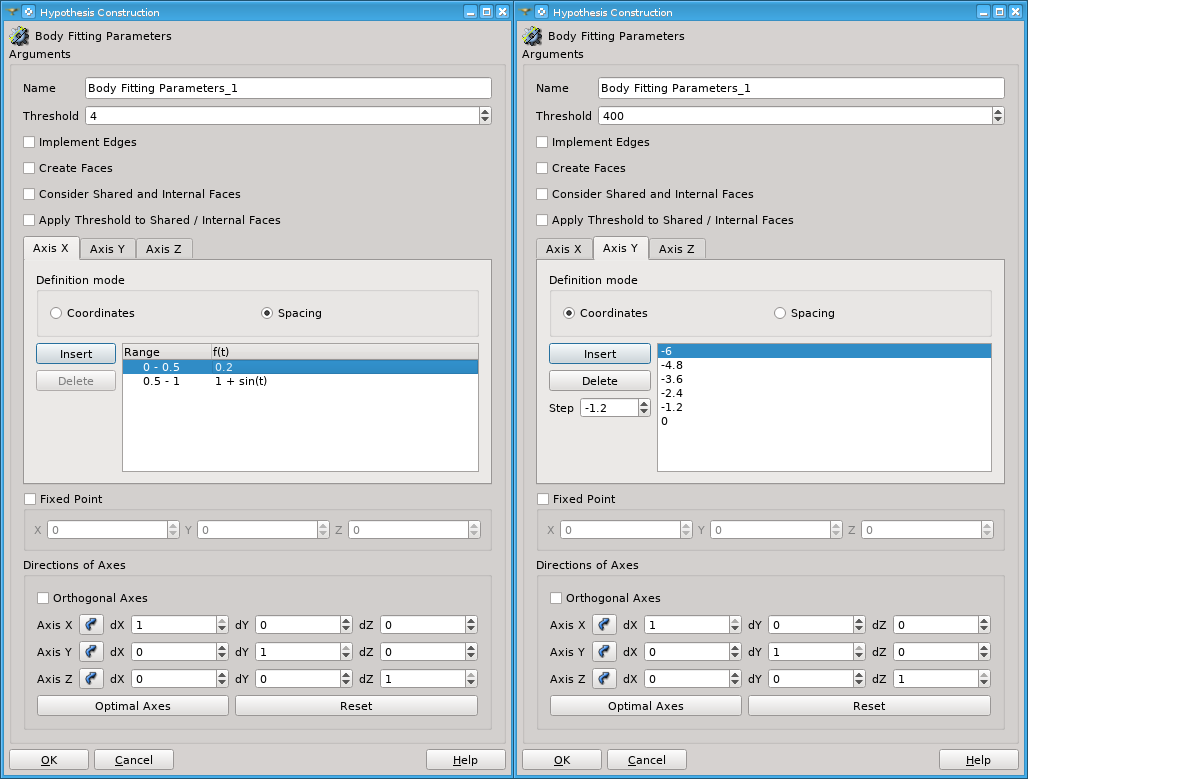
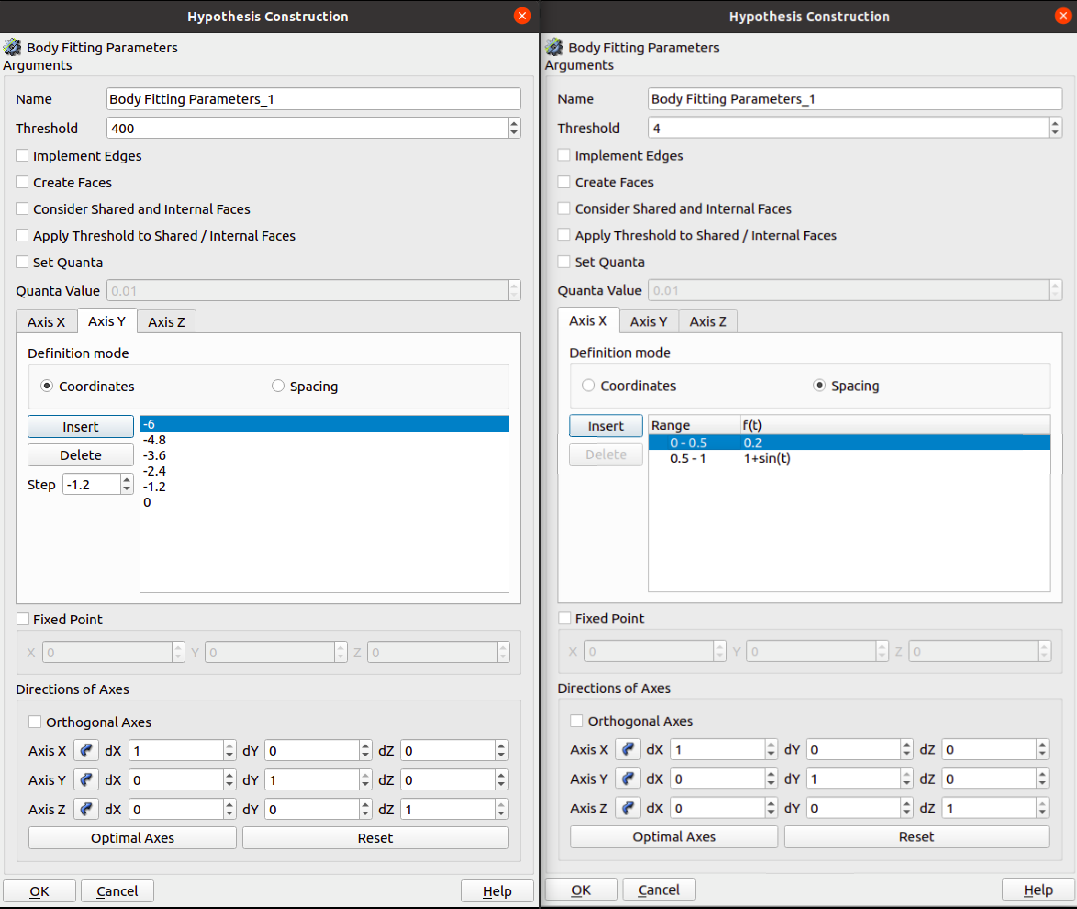
[bos #38052][EDF](2023-T3) Option to replace polyhedrons by hexahedrons in the body frontier based in a predefined volume relation.
Including quanta option to hypothesis with persistence. Working version w/o support to add faces on the boundary elements.

Intermedial commit.

Intermedial commit.

Adding documentation and test.

Final adjust for conformity with NRT.

diff --git a/src/StdMeshersGUI/StdMeshers_msg_fr.ts b/src/StdMeshersGUI/StdMeshers_msg_fr.ts
@@ -563,6 +563,14 @@ Veuillez plutôt créer une autre hypothèse à la place de celle-ci pour ce mai
         <translation>Appliquer le seuil aux faces partagées/internes</translation>
     </message>
     <message>
+        <source>SET_QUANTA</source>
+        <translation>Utiliser Quanta</translation>
+    </message>
+    <message>
+        <source>QUANTA_VALUE</source>
+        <translation>Valeur Quanta</translation>
+    </message>
+    <message>
         <source>AXIS_X</source>
         <translation>Axe X</translation>
     </message>

diff --git a/src/StdMeshersGUI/StdMeshers_msg_en.ts b/src/StdMeshersGUI/StdMeshers_msg_en.ts
@@ -587,6 +587,14 @@ Consider creating another hypothesis instead of using this one for this mesh/sub
         <translation>Apply Threshold to Shared / Internal Faces</translation>
     </message>
     <message>
+        <source>SET_QUANTA</source>
+        <translation>Set Quanta</translation>
+    </message>
+    <message>
+        <source>QUANTA_VALUE</source>
+        <translation>Quanta Value</translation>
+    </message>
+    <message>
         <source>AXIS_X</source>
         <translation>Axis X</translation>
     </message>

diff --git a/test/body_fitting_quanta_sphere.py b/test/body_fitting_quanta_sphere.py
@@ -1,0 +1,50 @@
+#!/usr/bin/env python
+
+import salome
+salome.salome_init()
+import GEOM
+from salome.geom import geomBuilder
+geompy = geomBuilder.New()
+
+import SMESH, SALOMEDS
+from salome.smesh import smeshBuilder
+smesh =  smeshBuilder.New()
+
+O = geompy.MakeVertex(0, 0, 0)
+OX = geompy.MakeVectorDXDYDZ(1, 0, 0)
+OY = geompy.MakeVectorDXDYDZ(0, 1, 0)
+OZ = geompy.MakeVectorDXDYDZ(0, 0, 1)
+Sphere_1 = geompy.MakeSphereR(100)
+geompy.addToStudy( O, 'O' )
+geompy.addToStudy( OX, 'OX' )
+geompy.addToStudy( OY, 'OY' )
+geompy.addToStudy( OZ, 'OZ' )
+geompy.addToStudy( Sphere_1, 'Sphere_1' )
+
+Mesh_1 = smesh.Mesh(Sphere_1,'Mesh_1')
+Cartesian_3D = Mesh_1.BodyFitted()
+Body_Fitting_Parameters_1 = Cartesian_3D.SetGrid([ [ '34.641' ], [ 0, 1 ]],[ [ '34.641' ], [ 0, 1 ]],[ [ '34.641' ], [ 0, 1 ]],4,0)
+Body_Fitting_Parameters_1.SetToUseQuanta( 1 )
+Body_Fitting_Parameters_1.SetQuanta( 0.8 )
+isDone = Mesh_1.Compute()
+
+Polys   = Mesh_1.NbPolyhedrons()
+Hexas1  = Mesh_1.NbHexas()
+
+#No polyhedrons in the mesh
+assert(Polys==0)
+
+Body_Fitting_Parameters_1.SetQuanta( 0.2 )
+isDone = Mesh_1.Compute()
+
+Polys   = Mesh_1.NbPolyhedrons()
+Hexas2  = Mesh_1.NbHexas()
+
+#Still no polyhedrons in the mesh
+assert(Polys==0)
+
+#Numher of hexahedrons is bigger for hexas2 becuase quanta value is smaller
+assert( Hexas1 < Hexas2 )
+
+if salome.sg.hasDesktop():
+  salome.sg.updateObjBrowser()

diff --git a/src/StdMeshersGUI/StdMeshersGUI_CartesianParamCreator.h b/src/StdMeshersGUI/StdMeshersGUI_CartesianParamCreator.h
@@ -147,6 +147,7 @@ private slots:
   void             onOptimalAxes(bool);
   void             onResetAxes(bool);
   void             onGridModeChanged(int);
+  void             onSetQuanta(bool);
 
 private:
   QLineEdit*                  myName;
@@ -155,6 +156,8 @@ private:
   QCheckBox*                  myCreateFaces;
   QCheckBox*                  myConsiderInternalFaces;
   QCheckBox*                  myUseThresholdForInternalFaces;
+  QCheckBox*                  mySetQuanta;
+  SMESHGUI_SpinBox*           myQuanta;
 
   StdMeshersGUI::GridAxisTab* myAxisTabs[3];
   QGroupBox*                  myFixedPointGrp;

diff --git a/doc/gui/input/cartesian_algo.rst b/doc/gui/input/cartesian_algo.rst
@@ -65,6 +65,8 @@ This dialog allows to define
 * **Create Faces** check-box activates creation on mesh faces.
 * **Consider Shared and Internal Faces** check-box activates treatment of faces shared by solids and internal. By default the algorithm considers only outer boundaries of the geometry.
 * **Apply Threshold to Shared / Internal Faces** check-box activates application of **Threshold** to cells cut by shared and internal faces, that can cause appearance of holes inside the mesh.
+* **Set Quanta** check-box activates application of **Quanta Value** to replace **polyhedrons** by hexahedrons at the boundary of the geometry. 
+* **Quanta Value** the relation between the volume of a polyhedrons and the equivalent hexahedron at the solid boundary. When **Set Quanta** is checked, those elements are replaced by hexahedrons if the volume of the polyhedron divided by the equivalente hexahedron is bigger than **Quanta**.  
 * **Definition mode** allows choosing how Cartesian structured grid is defined. Location of nodes along each grid axis is defined individually:
     
 	* You can specify the **Coordinates** of grid nodes. **Insert** button inserts a node at **Step** distance (negative or positive) from the selected node. **Delete** button removes the selected node. Double click on a coordinate in the list enables its edition. **Note** that node coordinates are measured along directions of axes that can differ from the directions of the Global Coordinate System.
